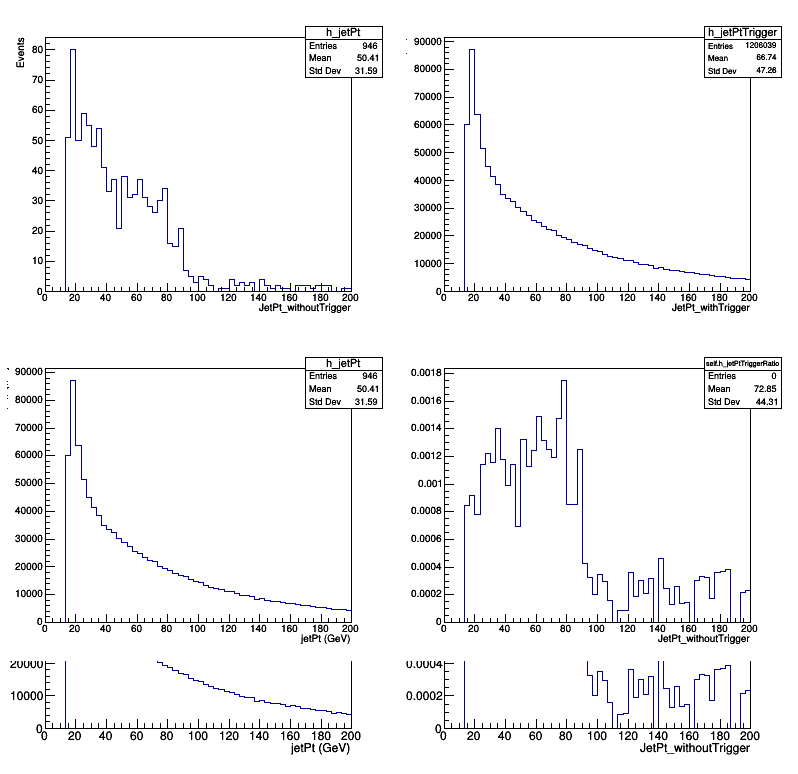
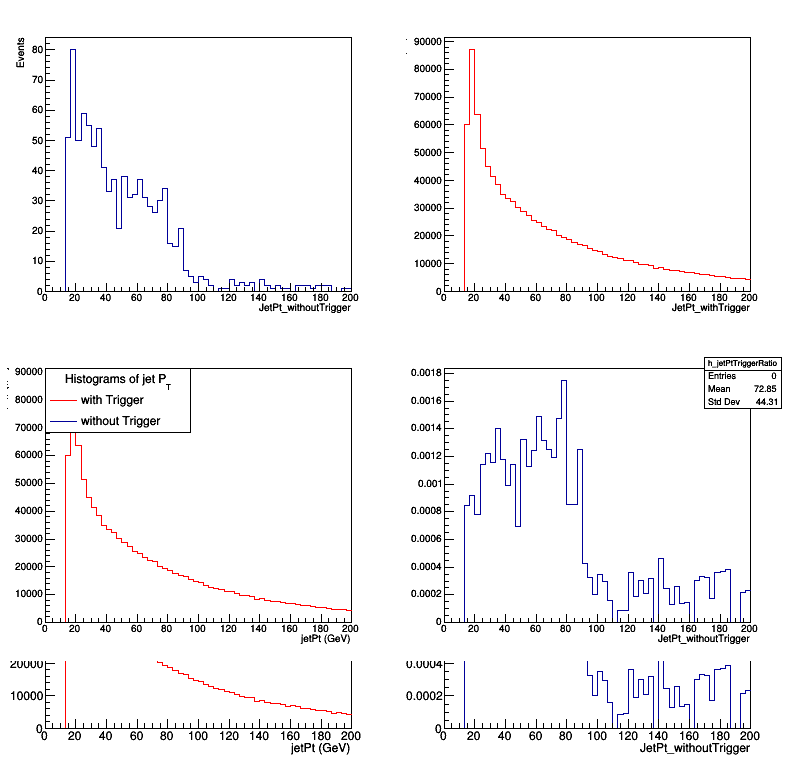
changes to legend

diff --git a/CH05.py b/CH05.py
@@ -1,6 +1,7 @@
 from __future__ import (division, print_function)
 
 import ROOT 
+from ROOT import TLatex
 from importlib import import_module
 
 from PhysicsTools.NanoAODTools.postprocessing.framework.postprocessor import PostProcessor 
@@ -170,7 +171,7 @@ files=[]
 #Open the text list of files as read-only ("r" option), use as pairs to add proper postfix to output file
 #inputList =  open("../Infiles/TTJets_SingleLeptFromT_TuneCP5_13TeV-madgraphMLM-pythia8.txt", "r") # tt + jets MC
 #thePostFix = "TTJets_SL"
-inputList =  open("../Infiles/TTTT_TuneCP5_13TeV-amcatnlo-pythia8.txt", "r") # tttt MC
+inputList =  open("../NanoAODTools/StandaloneExamples/Infiles/TTTT_TuneCP5_13TeV-amcatnlo-pythia8.txt", "r") # tttt MC
 thePostFix = "TTTT"
 #inputList =  open("../Infiles/TTTT_TuneCP5_PSweights_13TeV-amcatnlo-pythia8.txt", "r") # tttt MC PSWeights
 #thePostFix = "TTTT_PSWeights"
@@ -214,22 +215,29 @@ h_jetPt = ROOT.gDirectory.Get("h_jetPt")
 if not (h_jetPt):
     print("jetPt histogram is empty")
 h_jetPtTrigger = ROOT.gDirectory.Get("h_jetPtTrigger")
-h_jetPtTrigger.SetLineColor(kRed)
+h_jetPtTrigger.SetLineColor(ROOT.kRed)
 if not (h_jetPtTrigger):
     print("jetPtTrigger histogram is empty")
 cv = triggerCanvas.cd(1)
 h_jetPt.Draw()
 cv = triggerCanvas.cd(2)
 h_jetPtTrigger.Draw()
-cv = triggerCanvas.cd(3)
-h_jetPtTriggerStack.Add(h_jetPtTrigger)
-h_jetPtTriggerStack.Add(h_jetPt) 
-h_jetPtTriggerStack.Draw('nostack')
 cv = triggerCanvas.cd(4)
-h_jetPtTriggerRatio = (h_jetPt).Clone("self.h_jetPtTriggerRatio")
+h_jetPtTriggerRatio = (h_jetPt).Clone("h_jetPtTriggerRatio")
 h_jetPtTriggerRatio.Divide(h_jetPtTrigger)
 h_jetPtTriggerRatio.Draw()
-
+cv = triggerCanvas.cd(3)
+#h_jetPtTrigger.Draw()
+#h_jetPt.Draw('same')
+h_jetPtTriggerStack.Add(h_jetPtTrigger)
+h_jetPtTriggerStack.Add(h_jetPt)
+h_jetPtTriggerStack.Draw('nostack')
+h_jetPt.SetStats(False)
+h_jetPtTrigger.SetStats(False)
+legend = ROOT.TLegend(0.1, 0.7,0.48, 0.9)
+legend.SetHeader("Histograms of jet P_{T}", "C")
+legend.AddEntry(h_jetPtTrigger, "with Trigger", "l")
+legend.AddEntry(h_jetPt, "without Trigger", "l")
+legend.Draw()
 triggerCanvas.Print("histCanvas.png")
-
 histFile.Close()
